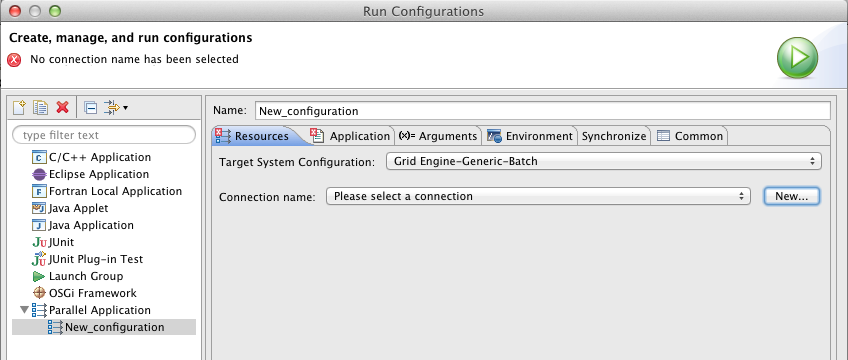
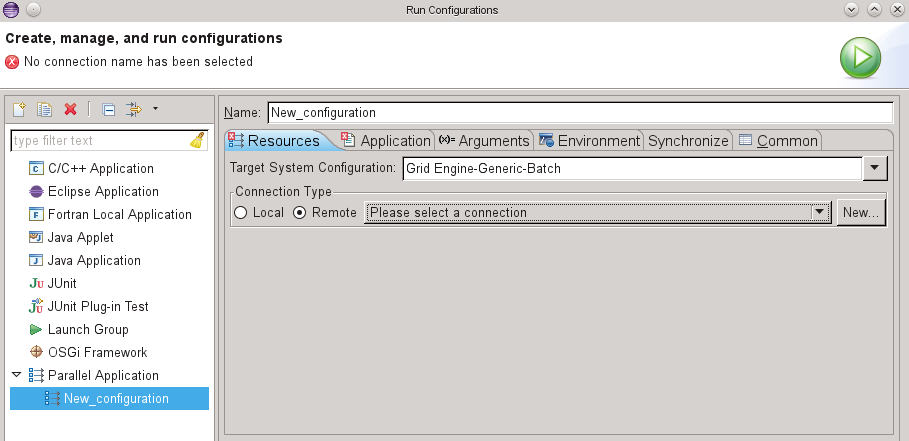
[397588] - Update Grid-Engine screenshots for launch configurations

diff --git a/core/org.eclipse.ptp.doc.user/html/rms/gridengine.html b/core/org.eclipse.ptp.doc.user/html/rms/gridengine.html
@@ -26,8 +26,8 @@ For <b>Target System Configuration</b>, select <b>Grid Engine-Generic-Batch</b>
 <p>Then specify a connection.  If you have already specified a connection, e.g.
 for a <a href="../sync.html">Synchronized Project</a> or a remote project,
 it will be selected already.
-If you are launching a local application, which we are doing in this example,
-you must specify a connection back to the local machine.
+If you are launching a local application (on the same machine where Eclipse is running), 
+select <b>Local</b> for the <b>Connection Type</b>.
 <p><img src="../images/ge-conn.png">
 <blockquote>
 <p>See <a href="../remoteTools.html#create">Creating Remote Connections</a> and 
